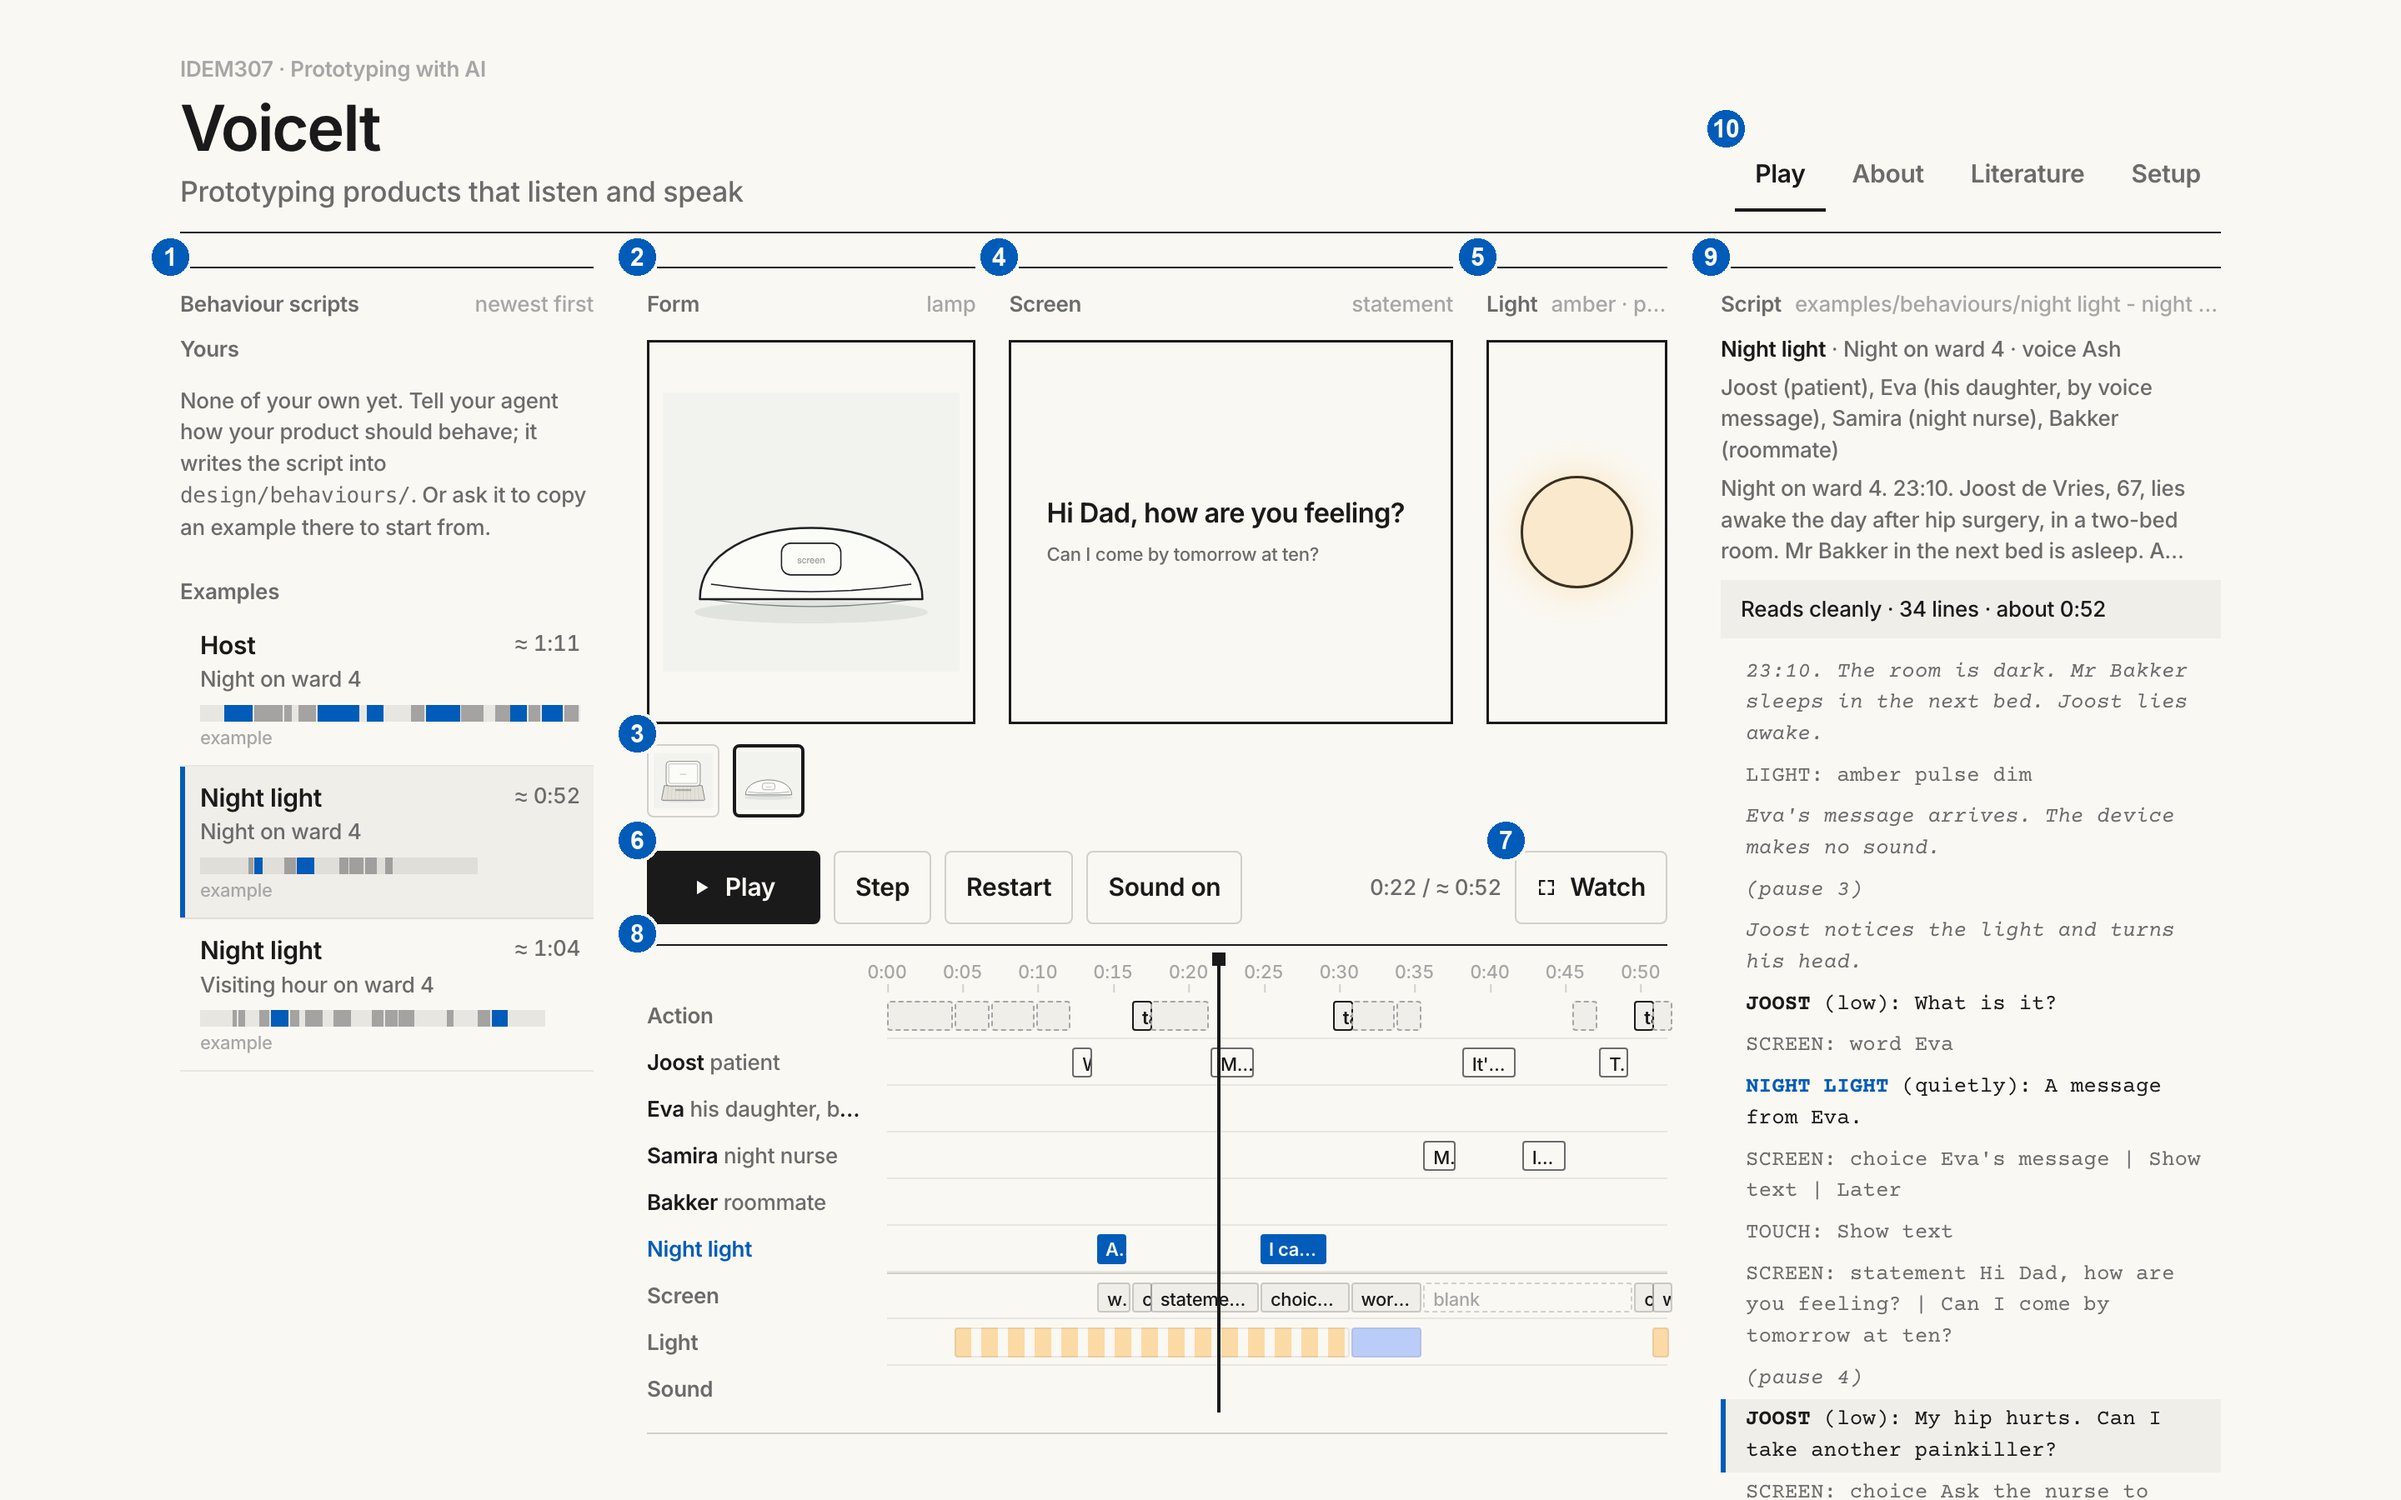
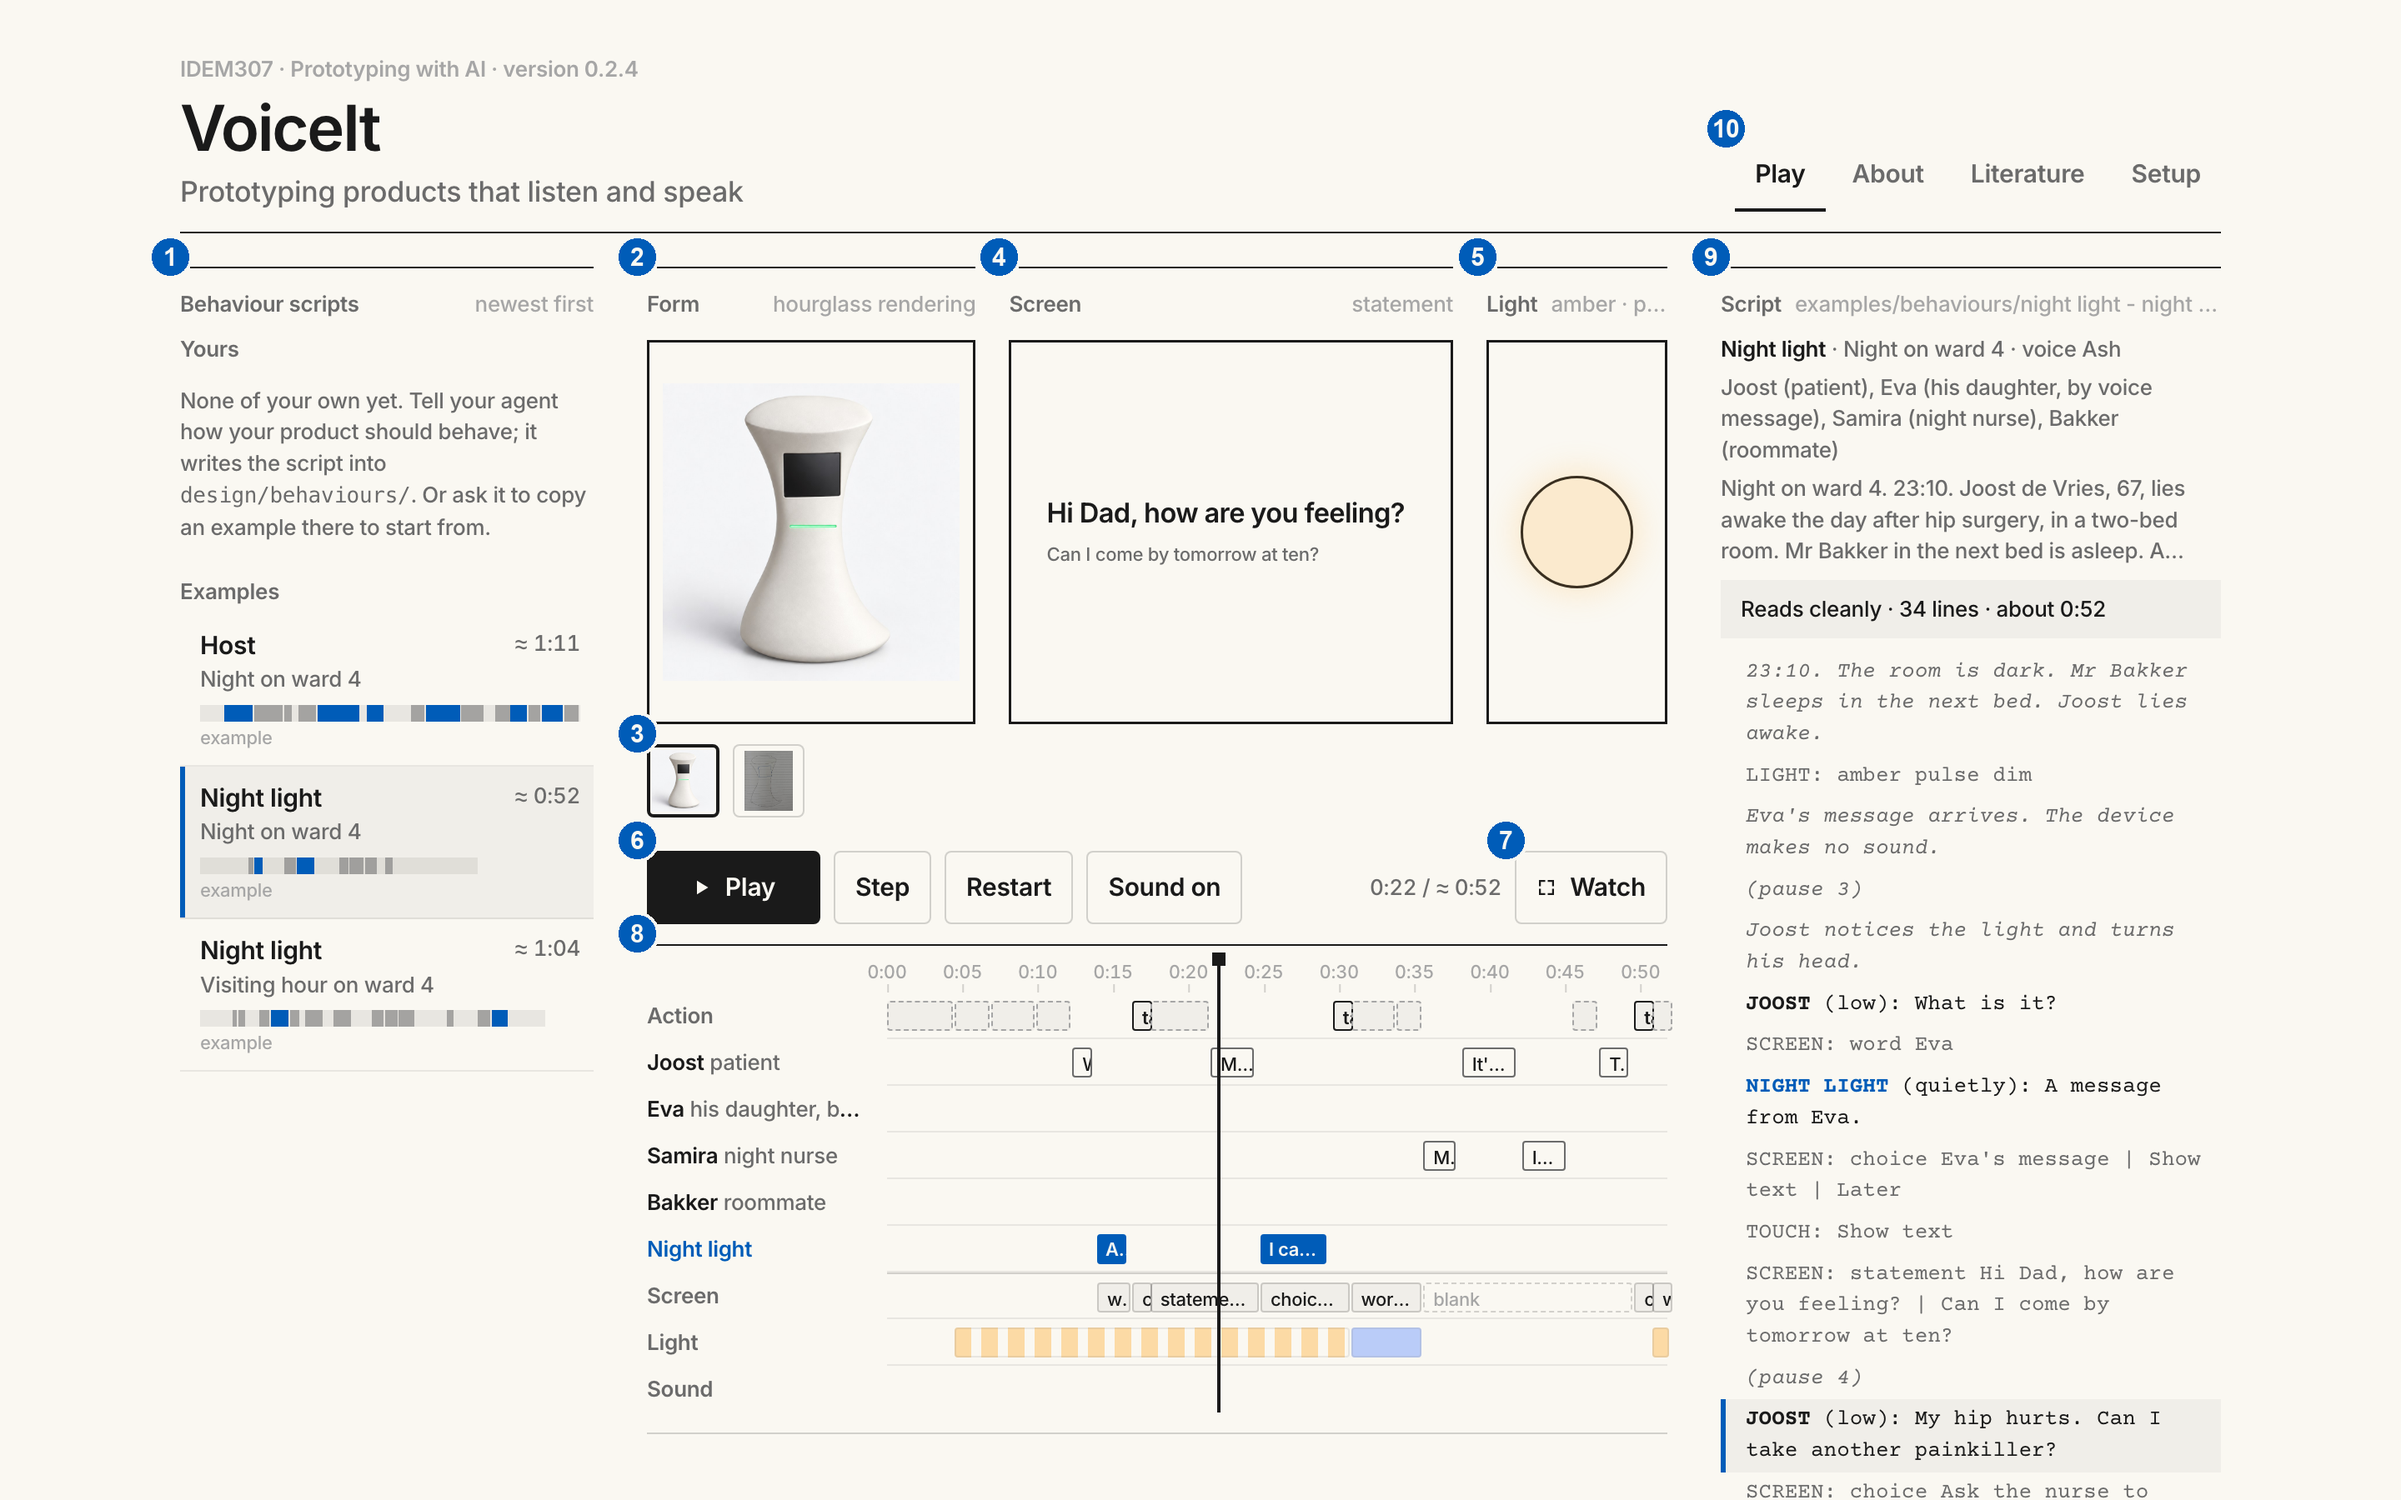
Example forms: a hand sketch and its rendering
The two line drawings (bedside unit, lamp) are replaced by a hand sketch
of an hourglass-shaped speaker and a rendering made from it (VoiceIt
project, Gerd Kortuem), showing the form loop: sketch, then render.
README, tutorial, FORM.md, AGENTS.md, the test and both screenshots
updated. Version 0.2.4 (the video tour follows in the next commit).

diff --git a/system/test/voiceit.test.js b/system/test/voiceit.test.js
@@ -72,11 +72,11 @@ test('examples and your own behaviours are kept apart', () => {
   const d = VoiceIt.buildDesign([
     {path:'design/behaviours/a.md', text:head + 'DEVICE: One.\n'},
     {path:'examples/behaviours/a.md', text:head + 'DEVICE: Two.\n'},
-    {path:'examples/forms/lamp.svg', url:'x'},
+    {path:'examples/forms/hourglass-rendering.jpg', url:'x'},
     {path:'design/forms/process/sketch.png', url:'y'}]);
   assert.deepStrictEqual(Object.keys(d.behaviours).sort(), ['a', 'example: a']);
   assert.strictEqual(d.behaviours['example: a'].example, true);
-  assert.deepStrictEqual(Object.keys(d.forms), ['example: lamp']);   // process/ is not listed
+  assert.deepStrictEqual(Object.keys(d.forms), ['example: hourglass-rendering']);   // process/ is not listed
 });
 
 test('the examples pass the check', () => {

diff --git a/system/voiceit.js b/system/voiceit.js
@@ -9,7 +9,7 @@
 'use strict';
 
 // the version shown by the page and the preview; add a matching entry at the top of CHANGELOG.md
-const VERSION = '0.2.3';
+const VERSION = '0.2.4';
 const RESERVED = ['DEVICE', 'SCREEN', 'LIGHT', 'SOUND', 'TOUCH'];
 const KINDS = ['component', 'light', 'modifier', 'sound', 'voice', 'manner'];
 const NUMERIC = ['pitch', 'rate', 'volume'];

diff --git a/README.md b/README.md
@@ -18,7 +18,7 @@ A short tour, with sound (click the image to download it, 7 MB): start VoiceIt, 
 
 ![VoiceIt playing a behaviour script with a product image, its screen and its light side by side, above a timeline](voiceit.png)
 
-*VoiceIt playing the Night light example with the lamp form.*
+*VoiceIt playing the Night light example with the hourglass rendering as its form.*
 
 ## The VoiceIt interface
 
@@ -70,9 +70,9 @@ Your browser opens VoiceIt. Select an example in the list, choose a form below t
 
 Play the first two one after another to hear two characters in the same scene; play the second and third to see whether one character stays the same in two scenes.
 
-**Forms**, in [examples/forms/](examples/forms/): two simple line drawings, a bedside unit and a lamp.
+**Forms**, in [examples/forms/](examples/forms/): a hand sketch of an hourglass-shaped speaker, and a rendering made from that sketch with an image-generation tool. Either can serve as a form.
 
-<img src="examples/forms/bedside-unit.svg" width="220" alt="Bedside unit: a screen standing on a fabric-covered speaker base with a light strip"> <img src="examples/forms/lamp.svg" width="220" alt="Lamp: a low dome with a small screen in its front">
+<img src="examples/forms/hourglass-sketch.jpg" height="260" alt="Hand sketch of an hourglass-shaped speaker with a square screen, on lined paper"> <img src="examples/forms/hourglass-rendering.jpg" height="260" alt="Rendering of the same speaker: white, hourglass-shaped, with a dark screen and a green light line">
 
 ## Design your own
 
@@ -98,6 +98,6 @@ Without Node, open `system/voiceit.html` in your browser and choose the `voiceit
 
 ## Status and licence
 
-VoiceIt is in development, for the course IDEM307 at TU Delft. This is version 0.2.3, an early release; what changed from version to version is in [CHANGELOG.md](CHANGELOG.md). Report problems in [GitHub Issues](https://github.com/kortuem/voiceit/issues) (needs a GitHub account) or tell your teacher. For maintainers: `node --test system/test/voiceit.test.js` runs the tests.
+VoiceIt is in development, for the course IDEM307 at TU Delft. This is version 0.2.4, an early release; what changed from version to version is in [CHANGELOG.md](CHANGELOG.md). Report problems in [GitHub Issues](https://github.com/kortuem/voiceit/issues) (needs a GitHub account) or tell your teacher. For maintainers: `node --test system/test/voiceit.test.js` runs the tests.
 
 The code and the example files are under the [MIT licence](LICENSE). The smart speaker photo above is not part of the repository; it is shown from Wikimedia Commons under its own licence, CC BY-SA 4.0. Visual style after Vlak (vlak.dev) by Renn, Noord.

diff --git a/TUTORIAL.md b/TUTORIAL.md
@@ -50,7 +50,7 @@ You need the **Claude desktop app** (its **Code** tab) or the **Codex** app, sig
 
 The example scene: **night on ward 4**, 23:10. Joost, 67, lies awake the day after hip surgery. Mr Bakker, his roommate, is asleep in the next bed. A voice message arrives from Eva, Joost's daughter: can she visit tomorrow at ten? Joost is in pain and does not know whether he may take more pain relief. Samira, the night nurse, is on duty.
 
-1. In the list on the left, under *Examples*, click **Night light · Night on ward 4**. Below the stage, click the lamp.
+1. In the list on the left, under *Examples*, click **Night light · Night on ward 4**. Below the stage, click the hourglass rendering.
 2. Press **Play**. The light pulses amber, without a sound. When Joost asks what it is, the screen shows *Eva* and the Night light says quietly: *"A message from Eva."* Joost taps *Show text*, and Eva's message appears on the screen. When he asks about a painkiller, it says it cannot advise and offers to call the nurse; while Samira is on her way, the light is dim blue.
 3. Now click **Host · Night on ward 4** and press **Play**. Same scene, same people, other character: the Host reads everything aloud (*"Joost, you have a new voice message from Eva. I'll play it for you."*), next to a sleeping roommate.
 

diff --git a/system/FORM.md b/system/FORM.md
@@ -9,7 +9,7 @@ The form is the product's body: what it looks like where it stands. You design i
 3. **Mark up** the render: print it or open it in any drawing app, and draw your changes over it in a strong colour, with short labels ("rounder", "screen lower", "fabric here").
 4. **Re-render** from the marked-up image. Repeat 3 and 4 until the form is yours.
 
-Save each form as one image in `design/forms/`, named after it (`lamp.png`, `bedside-unit.png`); VoiceIt shows each form as a small image under the form panel, and clicking one shows it with the behaviour script being played. Keep sketches and earlier renders in `design/forms/process/`; VoiceIt only lists the images directly in `design/forms/`.
+Save each form as one image in `design/forms/`, named after it (`juno.png`, `hourglass-rendering.jpg`); VoiceIt shows each form as a small image under the form panel, and clicking one shows it with the behaviour script being played. Keep sketches and earlier renders in `design/forms/process/`; VoiceIt only lists the images directly in `design/forms/`.
 
 ## Prompts
 

diff --git a/AGENTS.md b/AGENTS.md
@@ -22,7 +22,7 @@ You are helping a group of design students prototype a physical product that lis
   - `check.md`: the group asks whether their scripts are correct, or edited a script by hand. Run the check and explain every problem in plain words, with its line.
 - `design/forms/`: the form images, one per form.
 - `design/behaviours/`: the group's behaviours, one script each.
-- `examples/`: the worked example (the Host and the Night light, two forms). Never change these files. To start from an example, copy it into `design/behaviours/` (or `design/forms/`) and change the copy.
+- `examples/`: the worked example (the Host and the Night light; as forms, a hand sketch and a rendering made from it). Never change these files. To start from an example, copy it into `design/behaviours/` (or `design/forms/`) and change the copy.
 - `design/notes.md`: the group's observations.
 
 ## What the group says

diff --git a/CHANGELOG.md b/CHANGELOG.md
@@ -4,9 +4,10 @@ What changed from one version of VoiceIt to the next, newest first. Versions bel
 
 For maintainers: when releasing, set `VERSION` in `system/voiceit.js`, add an entry here with the same number, and tag the commit. The tests check that the two numbers match.
 
-## Unreleased
+## 0.2.4 (29 September 2026)
 
-- A short video tour (`media/voiceit-demo.mp4`, 1 min 26 s, with subtitles), linked from the README and the tutorial.
+- **New example forms**: a hand sketch of an hourglass-shaped speaker and a rendering made from it replace the two line drawings. Together they show the form loop: sketch, then render.
+- **A short video tour** (`media/voiceit-demo.mp4`, about 1.5 minutes, with subtitles), linked from the README and the tutorial.
 
 ## 0.2.3 (29 September 2026)
 
